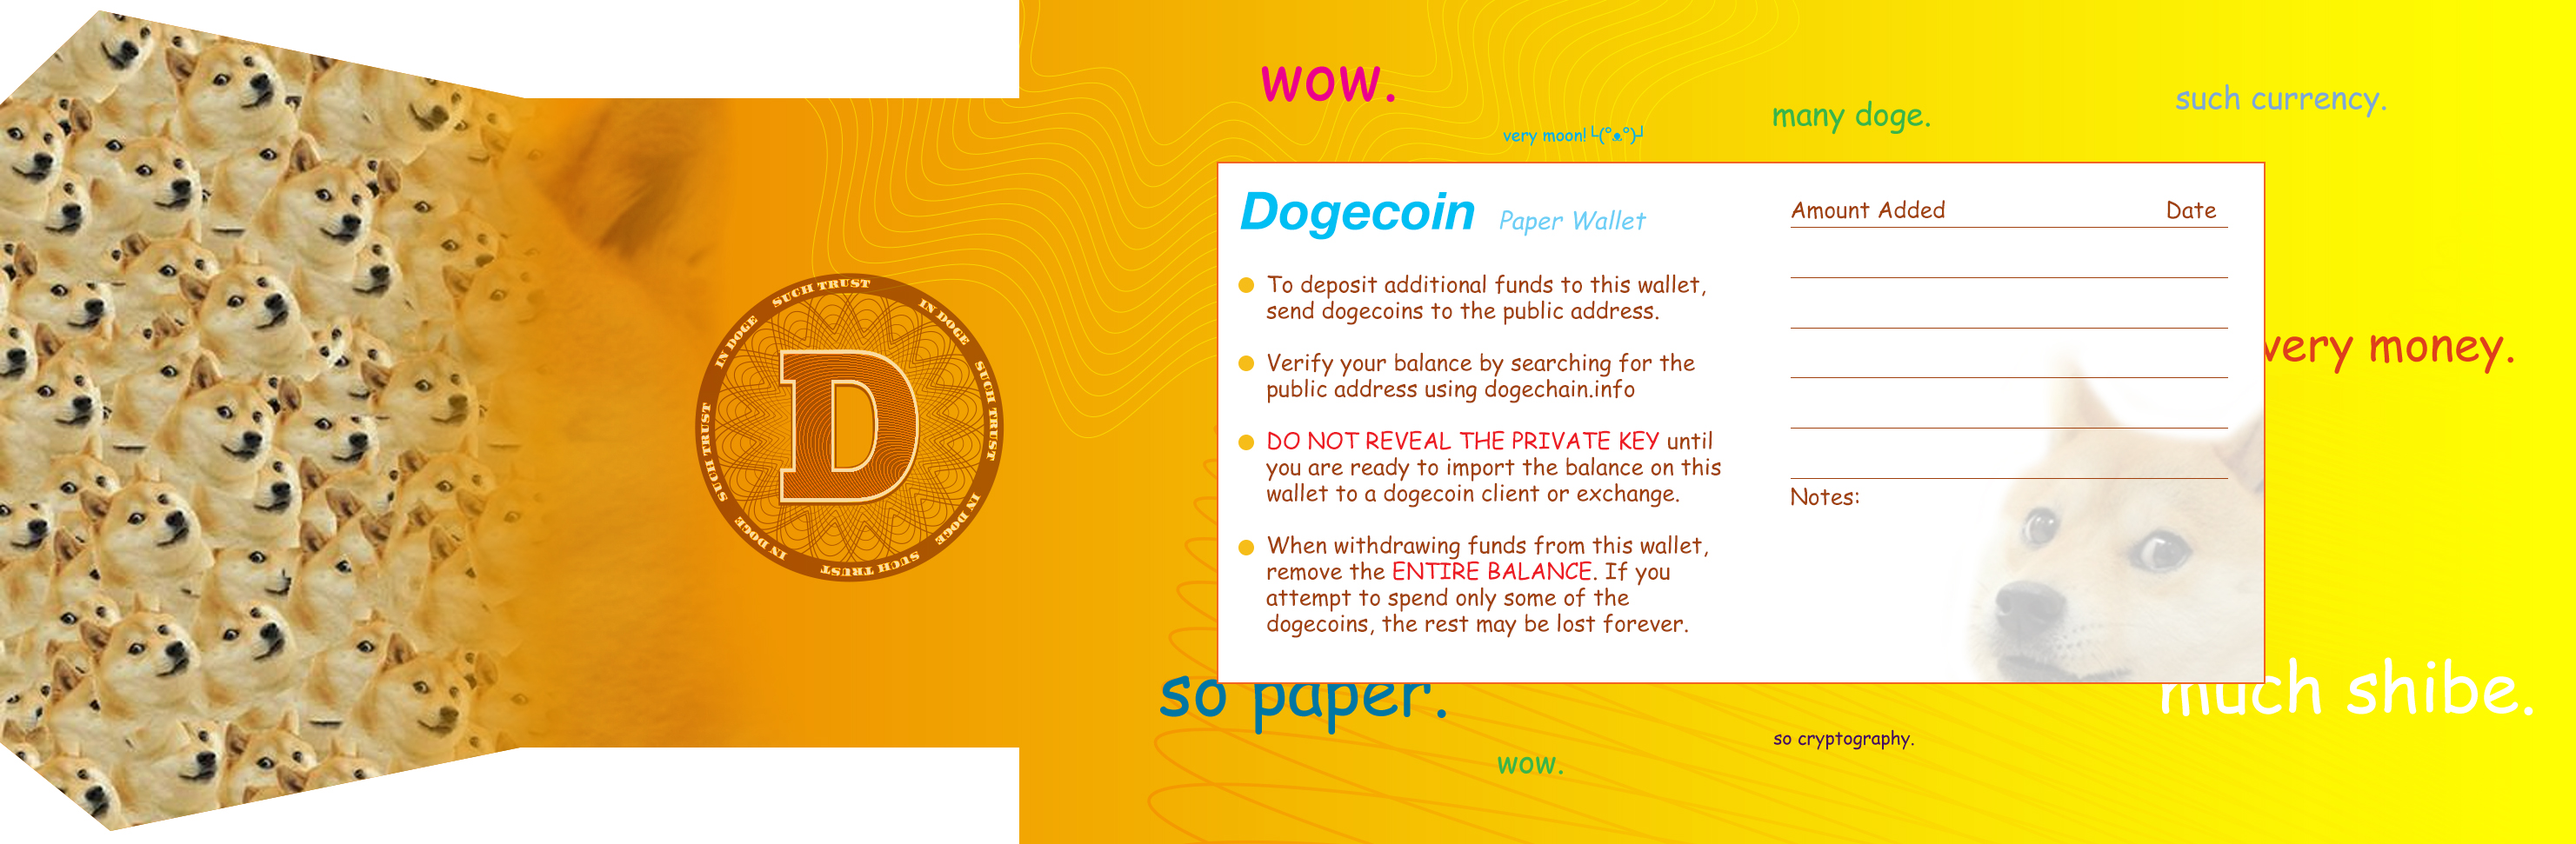
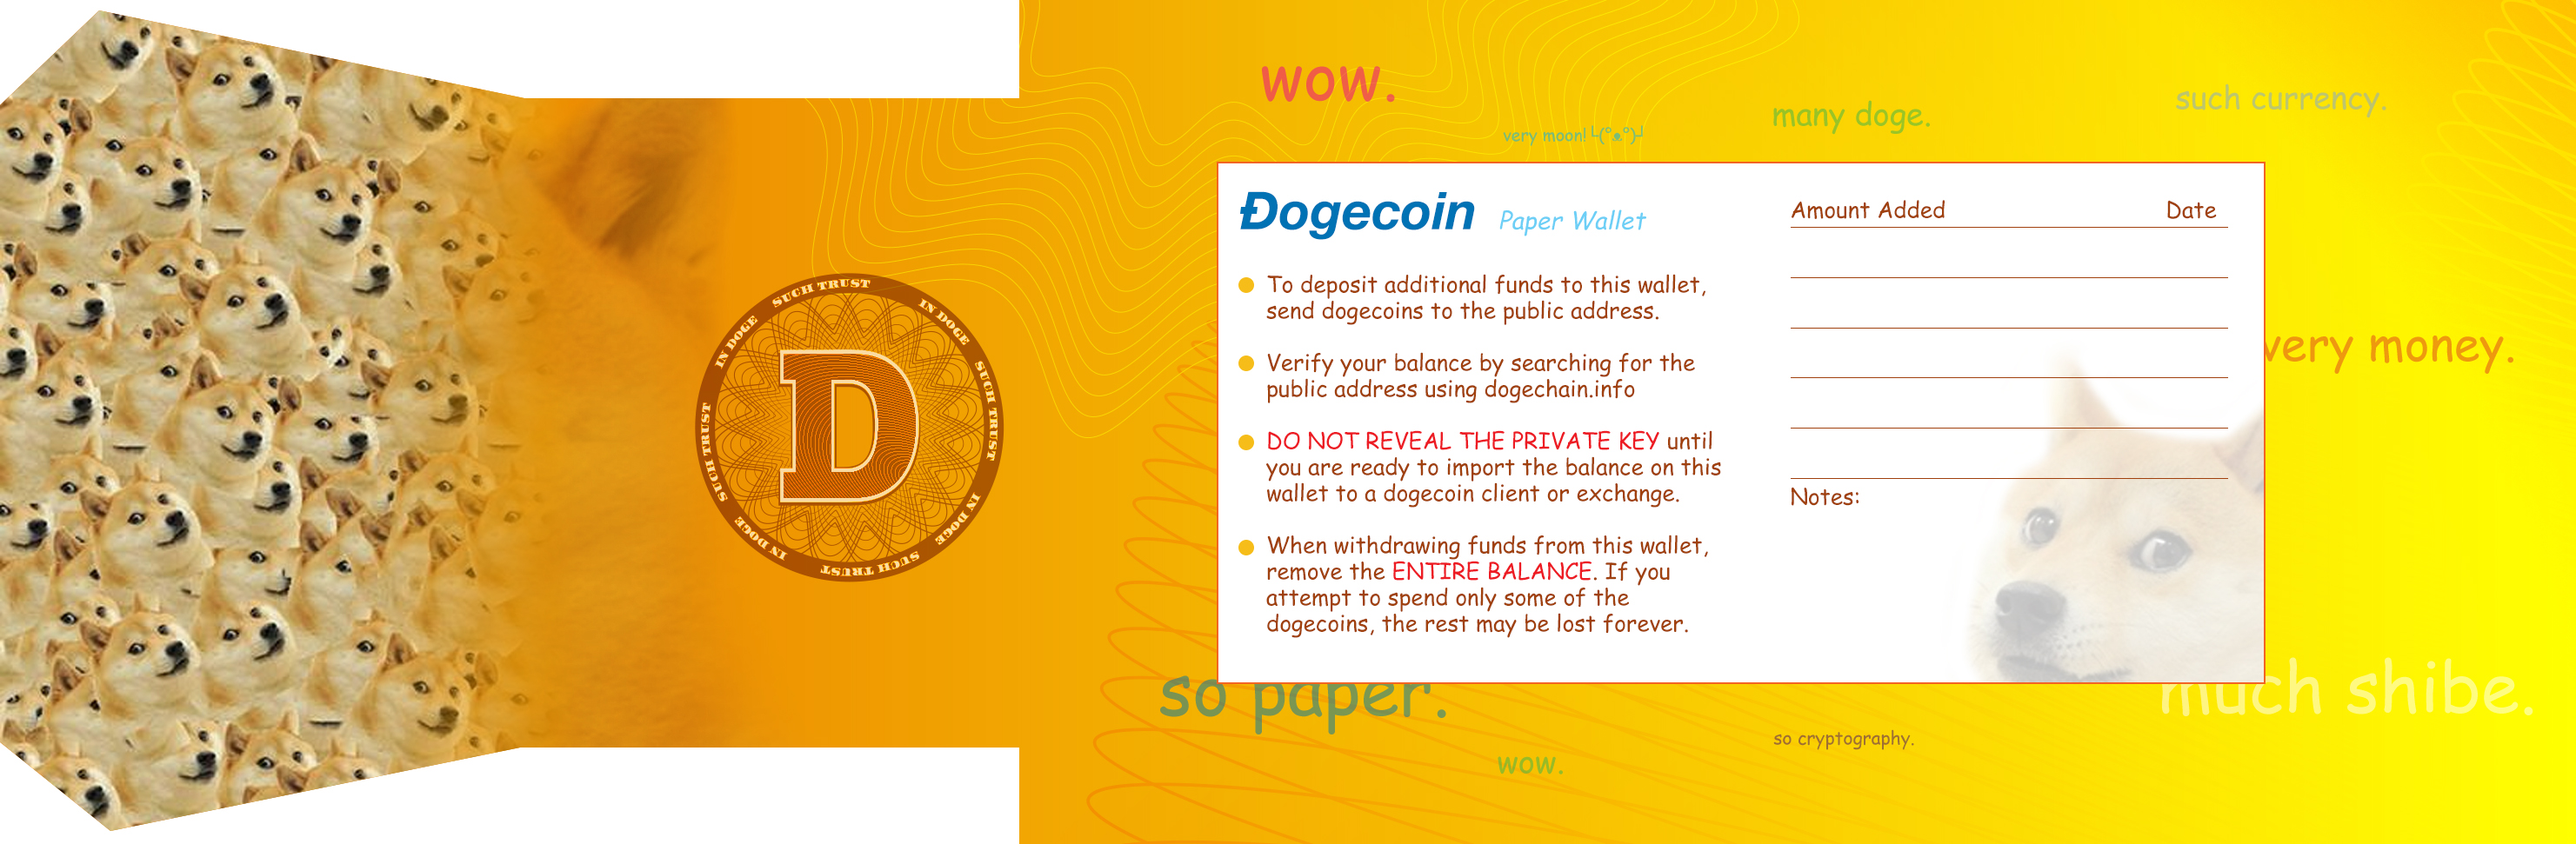
updated wallet design and colors

diff --git a/generate-wallet.html b/generate-wallet.html
@@ -6362,7 +6362,7 @@ Bitcoin.Util = {
 		#paperarea .artwallet .btcaddress
 		{
 		    position: absolute; top: 275px; left: 40px; z-index: 100; background-color: transparent;
-		    color: #00aeef; margin: 0;
+		    color: #0072b4; margin: 0;
 				-webkit-transform-origin:top left;
 				/* -webkit-transform:rotate(-90deg); */
 				-moz-transform-origin:top left;
@@ -6378,7 +6378,7 @@ Bitcoin.Util = {
 		#paperarea .artwallet .dupbtcaddress
 		{
 		    position: absolute; top: 45px; left: 40px; z-index: 100; background-color: transparent;
-		    color: #00aeef; margin: 0;
+		    color: #0072b4; margin: 0;
 				/* -webkit-transform-origin:top left; */
 				-webkit-transform:rotate(-180deg);
 				/* -moz-transform-origin:top left; */
@@ -6394,7 +6394,7 @@ Bitcoin.Util = {
 		#paperarea .artwallet .btcprivwif
 		{
 		    position: absolute; top: 245px; left: 610px; z-index: 100; background-color: transparent;
-		    color: #00aeef; margin: 0;
+		    color: #0072b4; margin: 0;
 				-webkit-print-color-adjust: exact;
 				-webkit-transform-origin:top left;
 				/*-webkit-transform:rotate(-90deg);*/
@@ -6411,7 +6411,7 @@ Bitcoin.Util = {
 		#paperarea .artwallet .dupbtcprivwif
 		{
 		    position: absolute; top: 75px; left: 610px; z-index: 100; background-color: transparent;
-		    color: #00aeef; margin: 0;
+		    color: #0072b4; margin: 0;
 				-webkit-print-color-adjust: exact;
 				/* -webkit-transform-origin:top left; */
 				-webkit-transform:rotate(-180deg);
